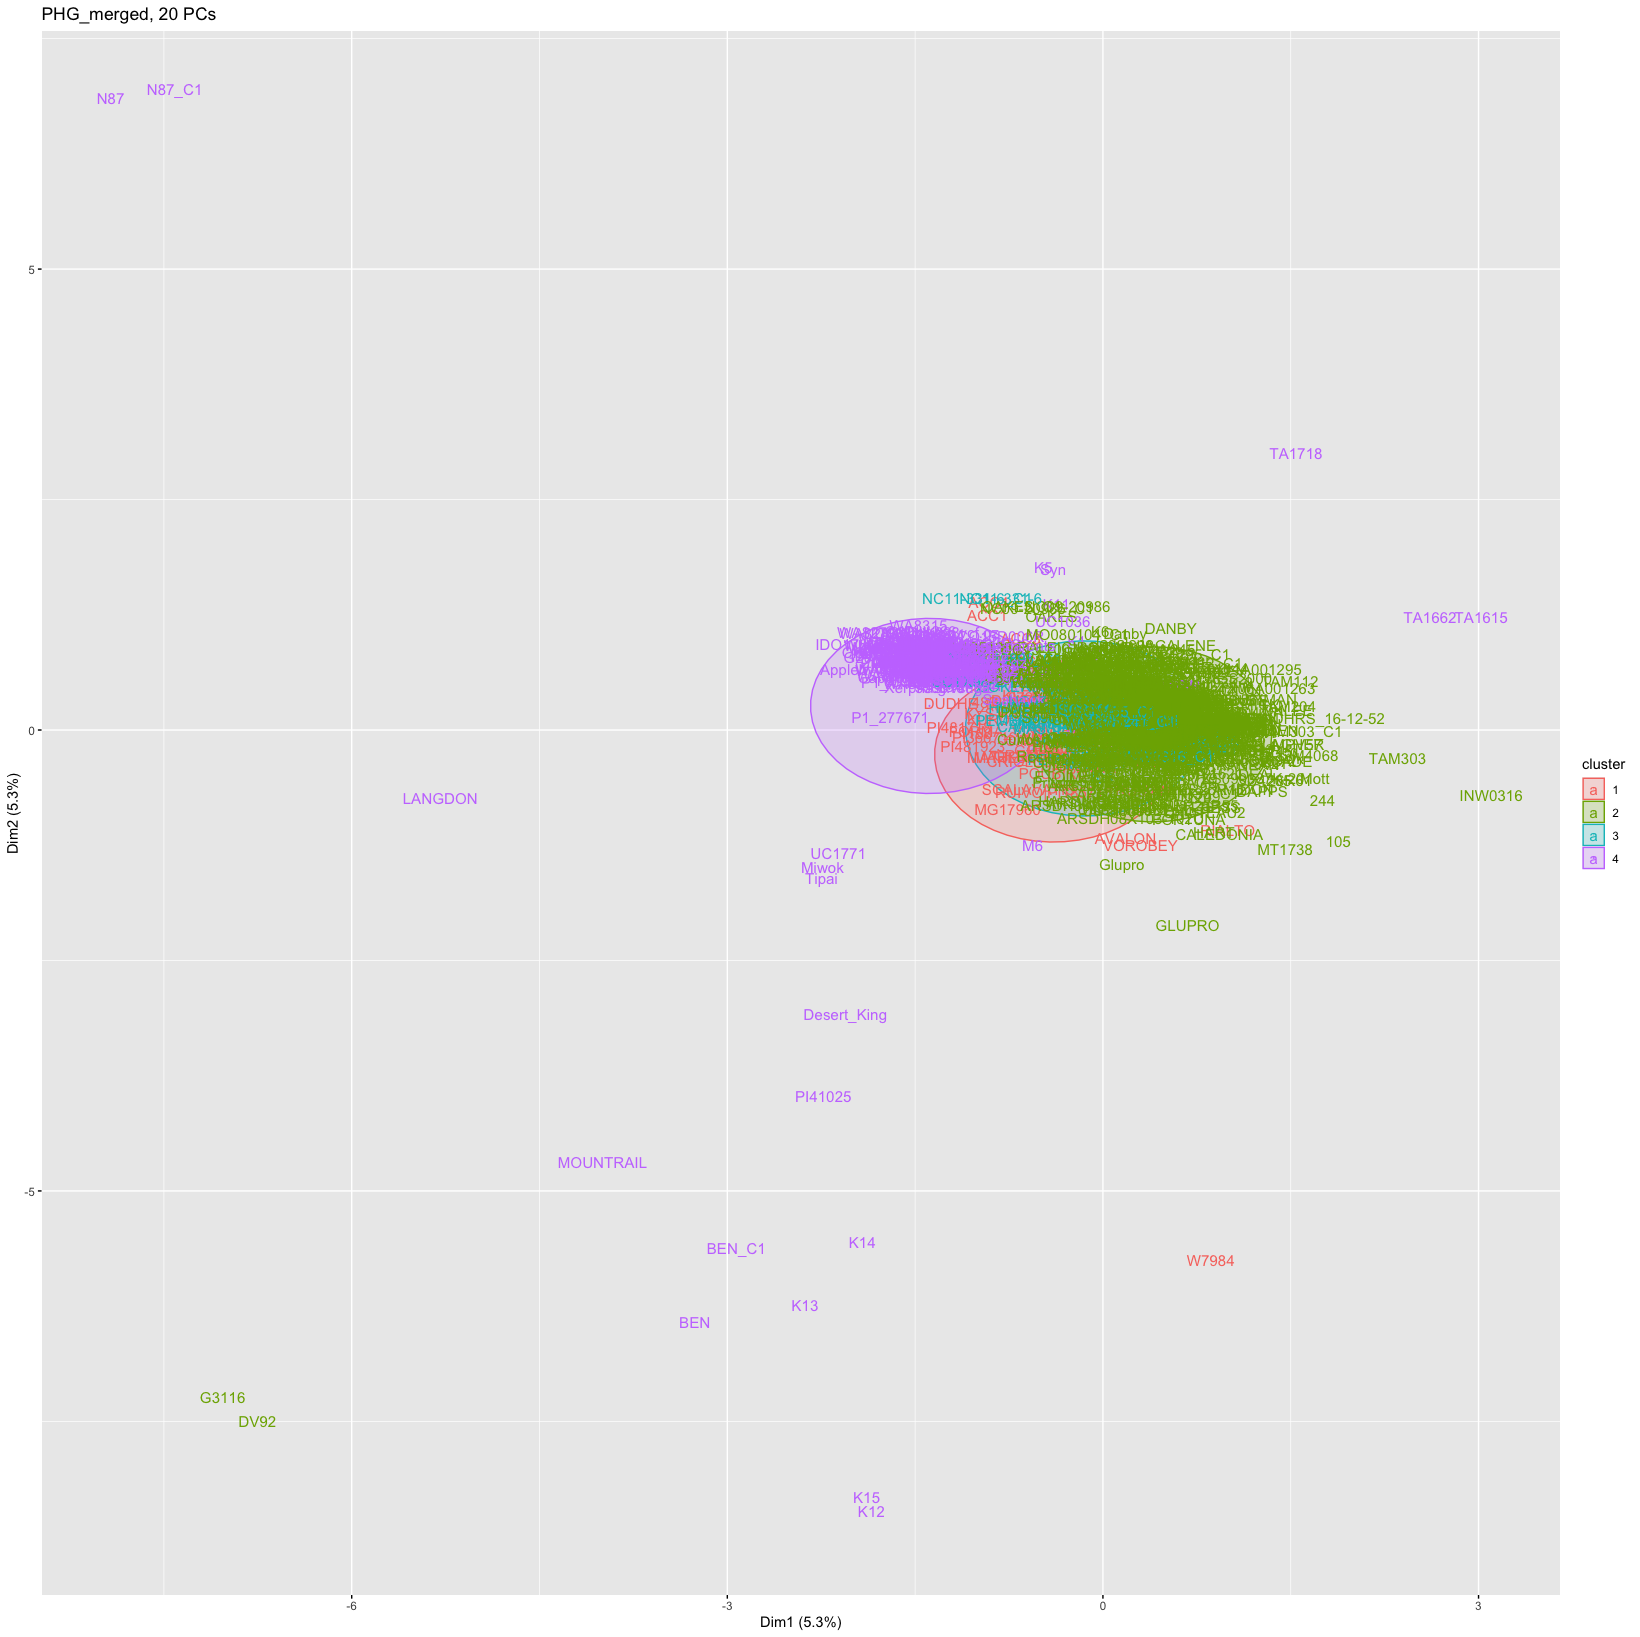
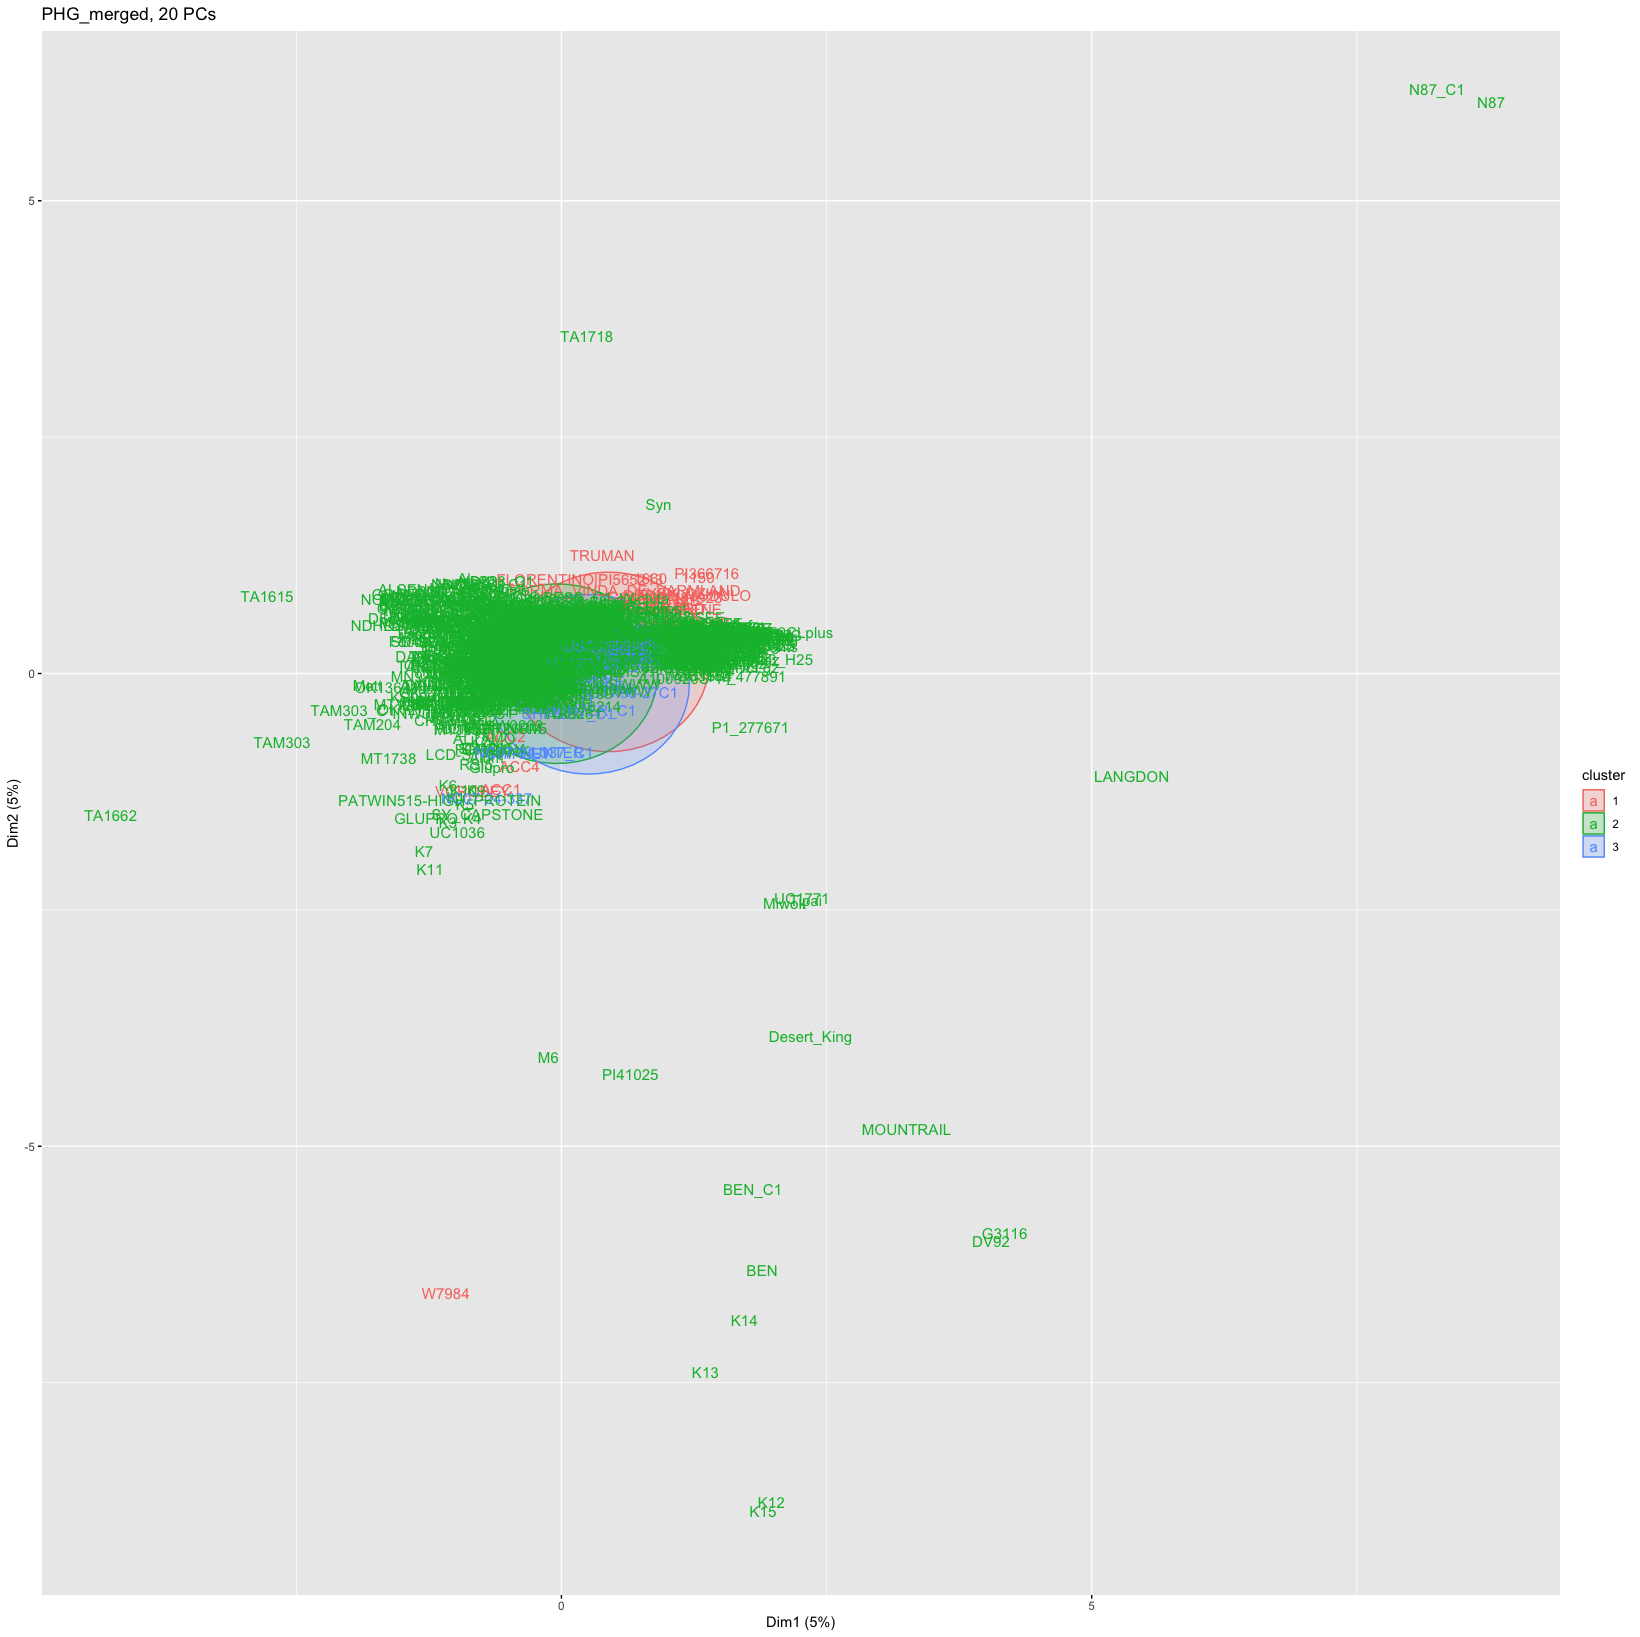
added images for 3,5,7 clusters

diff --git a/cluster-merged/README.md b/cluster-merged/README.md
@@ -92,7 +92,10 @@ Analysis by market class. A table showing clusters for each market class shows
 | 4       |  99    | 4     | 169     |
 | 5       |  9     | 5     | 171     |
 
-![4 Clusters](https://github.com/TriticeaeToolbox/PHGv2/blob/main/cluster-merged/images/PHG_merged.png)
+![3 Clusters](https://github.com/TriticeaeToolbox/PHGv2/blob/main/cluster-merged/images/PHG_merged_3c.png)
+![5 Clusters](https://github.com/TriticeaeToolbox/PHGv2/blob/main/cluster-merged/images/PHG_merged_5c.png)
+![7 Clusters](https://github.com/TriticeaeToolbox/PHGv2/blob/main/cluster-merged/images/PHG_merged_7c.png)
+
 ![4 Clusters](https://github.com/TriticeaeToolbox/PHGv2/blob/main/cluster-merged/images/PHG_merged_text.png)
 
 pairs plot of PCA
